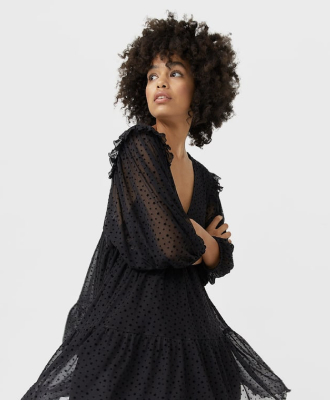
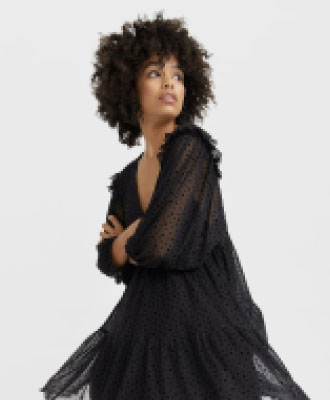
add hover effect

Changed region(s): [[0.0606, 0.03, 0.9394, 1.0]]

diff --git a/src/components/layouts/Trending.jsx b/src/components/layouts/Trending.jsx
@@ -3,34 +3,62 @@ import Container from "../Container";
 import Flex from "../Flex";
 import Product from "../Product";
 import ProductOne from "../../assets/productOne.jpg";
+import ProductOneSide from "../../assets/productOneSide.jpg";
+import ProductTwoSide from "../../assets/productTwoSide.jpg";
 import ProductTwo from "../../assets/productTwo.jpg";
 import ProductThree from "../../assets/productThree.jpg";
+import ProductThreeSide from "../../assets/productThreeSide.jpg";
 import ProductFour from "../../assets/productFour.jpg";
+import ProductFourSide from "../../assets/productFourSide.jpg";
 import ProductFive from "../../assets/productFive.jpg";
+import ProductFiveSide from "../../assets/productFiveSide.jpg";
 import ProductSix from "../../assets/productSix.jpg";
+import ProductSixSide from "../../assets/productSixSide.jpg";
 import ProductSeven from "../../assets/productSeven.jpg";
+import ProductSevenSide from "../../assets/productSevenSide.jpg";
 import ProductEight from "../../assets/productEight.jpg";
+import ProductEightSide from "../../assets/productEightSide.jpg";
 import { Link } from "react-router-dom";
 
 const Trending = () => {
   return (
     <>
-      <div className="py-10">
+      <div className="py-15">
         <Container>
           <div className="">
             <h3 className="text-[35px] text-center">Trending</h3>
             <ul className="space-x-10 text-center mt-5">
-              <li className="inline-block text-base font-medium text-seconderyColor hover:text-mainColor">
+              <li className="relative group px-2 py-2 inline-block text-base font-medium text-seconderyColor hover:text-mainColor hover:cursor-pointer">
                 ALL
+                <span
+                  className="absolute left-0 bottom-0  h-0.5 bg-black transform  
+                      w-0 group-hover:w-full group-hover:left-0 group-hover:translate-x-0 
+                      transition-all duration-300 ease-in-out"
+                ></span>
               </li>
-              <li className="inline-block text-base font-medium text-seconderyColor hover:text-mainColor">
+              <li className="relative px-2 py-2 group inline-block text-base font-medium text-seconderyColor hover:text-mainColor hover:cursor-pointer">
                 WOMEN
+                <span
+                  className="absolute left-0 bottom-0  h-0.5 bg-black transform  
+                      w-0 group-hover:w-full group-hover:left-0 group-hover:translate-x-0 
+                      transition-all duration-300 ease-in-out"
+                ></span>
               </li>
-              <li className="inline-block text-base font-medium text-seconderyColor hover:text-mainColor">
+              <li className="relative group px-2 py-2 inline-block text-base font-medium text-seconderyColor hover:text-mainColor hover:cursor-pointer">
                 MAN
+                <span
+                  className="absolute left-0 bottom-0  h-0.5 bg-black transform  
+                      w-0 group-hover:w-full group-hover:left-0 group-hover:translate-x-0 
+                      transition-all duration-300 ease-in-out"
+                ></span>
               </li>
-              <li className="inline-block text-base font-medium text-seconderyColor hover:text-mainColor">
+              <li className="relative group px-2 py-2 inline-block text-base font-medium text-seconderyColor hover:text-mainColor hover:cursor-pointer">
                 KIDS
+                <span
+                  className="absolute left-0 bottom-0  h-0.5 bg-black transform  
+                      w-0 group-hover:w-full group-hover:left-0 group-hover:translate-x-0 
+                      transition-all duration-300 ease-in-out"
+                ></span>
               </li>
             </ul>
           </div>
@@ -41,6 +69,7 @@ const Trending = () => {
                 className={""}
                 imgSrc={ProductOne}
                 imgAlt={"Arive One"}
+                imgSrcTwo={ProductOneSide}
                 text={"New"}
                 title={"Basic Crew Neck Tee"}
                 price={"$44.00"}
@@ -50,6 +79,7 @@ const Trending = () => {
                 className={""}
                 imgSrc={ProductTwo}
                 imgAlt={"Arive One"}
+                imgSrcTwo={ProductTwoSide}
                 text={"New"}
                 title={"Basic Crew Neck Tee"}
                 price={"$44.00"}
@@ -60,6 +90,7 @@ const Trending = () => {
                 imgSrc={ProductThree}
                 imgAlt={"Arive One"}
                 text={"New"}
+                imgSrcTwo={ProductThreeSide}
                 title={"Basic Crew Neck Tee"}
                 price={"$44.00"}
                 productColor={"Black"}
@@ -68,6 +99,7 @@ const Trending = () => {
                 className={""}
                 imgSrc={ProductFour}
                 imgAlt={"Arive One"}
+                imgSrcTwo={ProductFourSide}
                 text={"New"}
                 title={"Basic Crew Neck Tee"}
                 price={"$44.00"}
@@ -77,6 +109,7 @@ const Trending = () => {
                 className={""}
                 imgSrc={ProductFive}
                 imgAlt={"Arive One"}
+                imgSrcTwo={ProductFiveSide}
                 text={"New"}
                 title={"Basic Crew Neck Tee"}
                 price={"$44.00"}
@@ -86,6 +119,7 @@ const Trending = () => {
                 className={""}
                 imgSrc={ProductSix}
                 imgAlt={"Arive One"}
+                imgSrcTwo={ProductSixSide}
                 text={"New"}
                 title={"Basic Crew Neck Tee"}
                 price={"$44.00"}
@@ -95,6 +129,7 @@ const Trending = () => {
                 className={""}
                 imgSrc={ProductSeven}
                 imgAlt={"Arive One"}
+                imgSrcTwo={ProductSevenSide}
                 text={"New"}
                 title={"Basic Crew Neck Tee"}
                 price={"$44.00"}
@@ -104,6 +139,7 @@ const Trending = () => {
                 className={""}
                 imgSrc={ProductEight}
                 imgAlt={"Arive One"}
+                imgSrcTwo={ProductEightSide}
                 text={"New"}
                 title={"Basic Crew Neck Tee"}
                 price={"$44.00"}
@@ -115,18 +151,18 @@ const Trending = () => {
           {/* See More Btn Satrt  */}
           <div className="flex justify-center items-center">
             <Link to={"/shop"}>
-            <button className="relative  px-0 py-2 text-black text-sm font-semibold group hover:cursor-pointer mt-5 ">
-              {/* Button text */}
-              <span className="group-hover:text-black transition-colors duration-300 text-left">
-                See All Products
-              </span>
-              {/* Bottom border - starts at half width */}
-              <span
-                className="absolute left-0 bottom-0  h-0.5 bg-black transform  
+              <button className="relative  px-0 py-2 text-black text-sm font-semibold group hover:cursor-pointer mt-5 ">
+                {/* Button text */}
+                <span className="group-hover:text-black transition-colors duration-300 text-left">
+                  See All Products
+                </span>
+                {/* Bottom border - starts at half width */}
+                <span
+                  className="absolute left-0 bottom-0  h-0.5 bg-black transform  
                       w-1/3 group-hover:w-full group-hover:left-0 group-hover:translate-x-0 
                       transition-all duration-300 ease-in-out"
-              ></span>
-            </button>
+                ></span>
+              </button>
             </Link>
           </div>
           {/* See More Btn End  */}

diff --git a/src/components/layouts/Header.jsx b/src/components/layouts/Header.jsx
@@ -17,9 +17,9 @@ const Header = () => {
               <Image imgSrc={HeaderLogo} imgAlt={"Header Logo"} />
             </div>
             <div className="m-auto">
-              <ul className="flex items-center gap-x-8">
+              <ul className="flex items-center gap-x-10">
                 <Link to={"/"}>
-                  <li className="relative list-none px-3 py-2 text-sm  text-black  font-medium cursor-pointer group  hover:text-black  hover:cursor-pointer hover:translate-x-0 transition-all ease-in-out ">
+                  <li className="relative list-none px-2 py-2 text-sm  text-black  font-medium cursor-pointer group  hover:text-black  hover:cursor-pointer hover:translate-x-0 transition-all ease-in-out ">
                     HOME
                     <span
                       className="absolute left-0 bottom-0  h-0.5 bg-black transform  
@@ -29,7 +29,7 @@ const Header = () => {
                   </li>
                 </Link>
                 <Link to={"/shop"}>
-                  <li className="relative list-none px-3 py-2 text-sm  text-black  font-medium cursor-pointer group  hover:text-black  hover:cursor-pointer hover:translate-x-0 transition-all ease-in-out ">
+                  <li className="relative list-none px-2 py-2 text-sm  text-black  font-medium cursor-pointer group  hover:text-black  hover:cursor-pointer hover:translate-x-0 transition-all ease-in-out ">
                     SHOP
                     <span
                       className="absolute left-0 bottom-0  h-0.5 bg-black transform  
@@ -38,7 +38,7 @@ const Header = () => {
                     ></span>
                   </li>
                 </Link>
-                <li className="relative list-none px-3 py-2 text-sm  text-black  font-medium cursor-pointer group  hover:text-black  hover:cursor-pointer hover:translate-x-0 transition-all ease-in-out ">
+                <li className="relative list-none px-2 py-2 text-sm  text-black  font-medium cursor-pointer group  hover:text-black  hover:cursor-pointer hover:translate-x-0 transition-all ease-in-out ">
                   COLLECTION
                   <span
                       className="absolute left-0 bottom-0  h-0.5 bg-black transform  
@@ -46,7 +46,7 @@ const Header = () => {
                       transition-all duration-300 ease-in-out"
                     ></span>
                 </li>
-                <li className="relative list-none px-3 py-2 text-sm  text-black  font-medium cursor-pointer group  hover:text-black  hover:cursor-pointer hover:translate-x-0 transition-all ease-in-out ">
+                <li className="relative list-none px-2 py-2 text-sm  text-black  font-medium cursor-pointer group  hover:text-black  hover:cursor-pointer hover:translate-x-0 transition-all ease-in-out ">
                   Journal
                   <span
                       className="absolute left-0 bottom-0  h-0.5 bg-black transform  
@@ -54,7 +54,7 @@ const Header = () => {
                       transition-all duration-300 ease-in-out"
                     ></span>
                 </li>
-                <li className="relative list-none px-3 py-2 text-sm  text-black  font-medium cursor-pointer group  hover:text-black  hover:cursor-pointer hover:translate-x-0 transition-all ease-in-out ">
+                <li className="relative list-none px-2 py-2 text-sm  text-black  font-medium cursor-pointer group  hover:text-black  hover:cursor-pointer hover:translate-x-0 transition-all ease-in-out ">
                   LOOKBOOK
                   <span
                       className="absolute left-0 bottom-0  h-0.5 bg-black transform  
@@ -62,7 +62,7 @@ const Header = () => {
                       transition-all duration-300 ease-in-out"
                     ></span>
                 </li>
-                <li className="relative list-none px-3 py-2 text-sm  text-black  font-medium cursor-pointer group  hover:text-black  hover:cursor-pointer hover:translate-x-0 transition-all ease-in-out ">
+                <li className="relative list-none px-2 py-2 text-sm  text-black  font-medium cursor-pointer group  hover:text-black  hover:cursor-pointer hover:translate-x-0 transition-all ease-in-out ">
                   PAGES
                   <span
                       className="absolute left-0 bottom-0  h-0.5 bg-black transform  

diff --git a/src/components/Product.jsx b/src/components/Product.jsx
@@ -5,11 +5,26 @@ import {
   HiOutlineEye,
   HiOutlineHeart,
 } from "react-icons/hi2";
-const Product = ({ imgSrc, imgAlt, text, title, price, productColor }) => {
+const Product = ({ imgSrc, imgAlt, text, title, price, productColor, imgSrcTwo }) => {
   return (
     <>
-      <div className="w-[23%] relative group border-2 border-gray-100">
-        <img src={imgSrc} alt={imgAlt} />
+      <div className="w-[24%] relative group border-2 border-gray-100">
+        <div className="relative h-100 overflow-hidden">
+          {/* Default Image */}
+          <img
+            src={imgSrc}
+            alt={imgAlt}
+            className="absolute inset-0 w-full h-full object-cover transition-opacity duration-300 group-hover:opacity-0"
+          />
+
+          {/* Hover Image */}
+          <img
+            src={imgSrcTwo}
+            alt="Zessi Dress - Alternate View"
+            className=" absolute inset-0 w-full h-full object-cover transition-opacity duration-300 opacity-0 group-hover:opacity-100"
+          />
+        </div>
+
         <Badge className={"absolute top-5 left-5"} badgeText={text} />
         <div className=" p-7.5 space-y-3 absolute bottom-22 left-0 w-full opacity-0 translate-y-4 group-hover:opacity-100 group-hover:translate-y-0 transition-all duration-300 ease-in-out">
           <Flex className={"justify-center space-x-5"}>

diff --git a/src/components/layouts/Banner.jsx b/src/components/layouts/Banner.jsx
@@ -32,7 +32,7 @@ const Banner = () => {
                 <div className="w-[65%]">
                   <Heading
                     className={"text-[70px] font-medium"}
-                    txt={"The Classics"}
+                    txt={"Man Collection"}
                     as={"h1"}
                   />
                   <p className="text-base text-[#222222]">
@@ -67,7 +67,7 @@ const Banner = () => {
                 <div className="w-[65%]">
                   <Heading
                     className={"text-[70px] font-medium"}
-                    txt={"The Classics"}
+                    txt={"Women Collection"}
                     as={"h1"}
                   />
                   <p className="text-base text-[#222222]">
